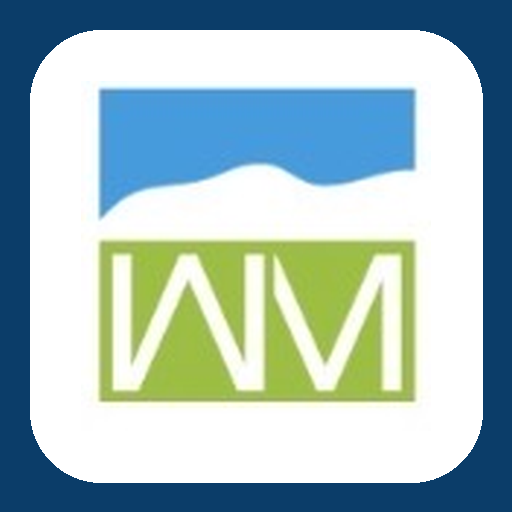
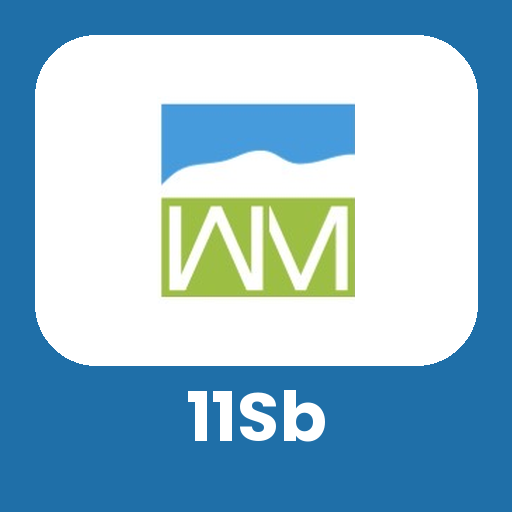
Add files via upload

diff --git a/index.html b/index.html
@@ -3,7 +3,7 @@
 <head>
 <meta charset="utf-8">
 <meta name="viewport" content="width=device-width,initial-scale=1,viewport-fit=cover">
-<meta name="theme-color" content="#0b3d69">
+<meta name="theme-color" content="#1f6fa8">
 <title>F11Sb 26/27 | FOSBOS Weilheim</title>
 <link rel="stylesheet" href="styles.css?v=20260919">
 
